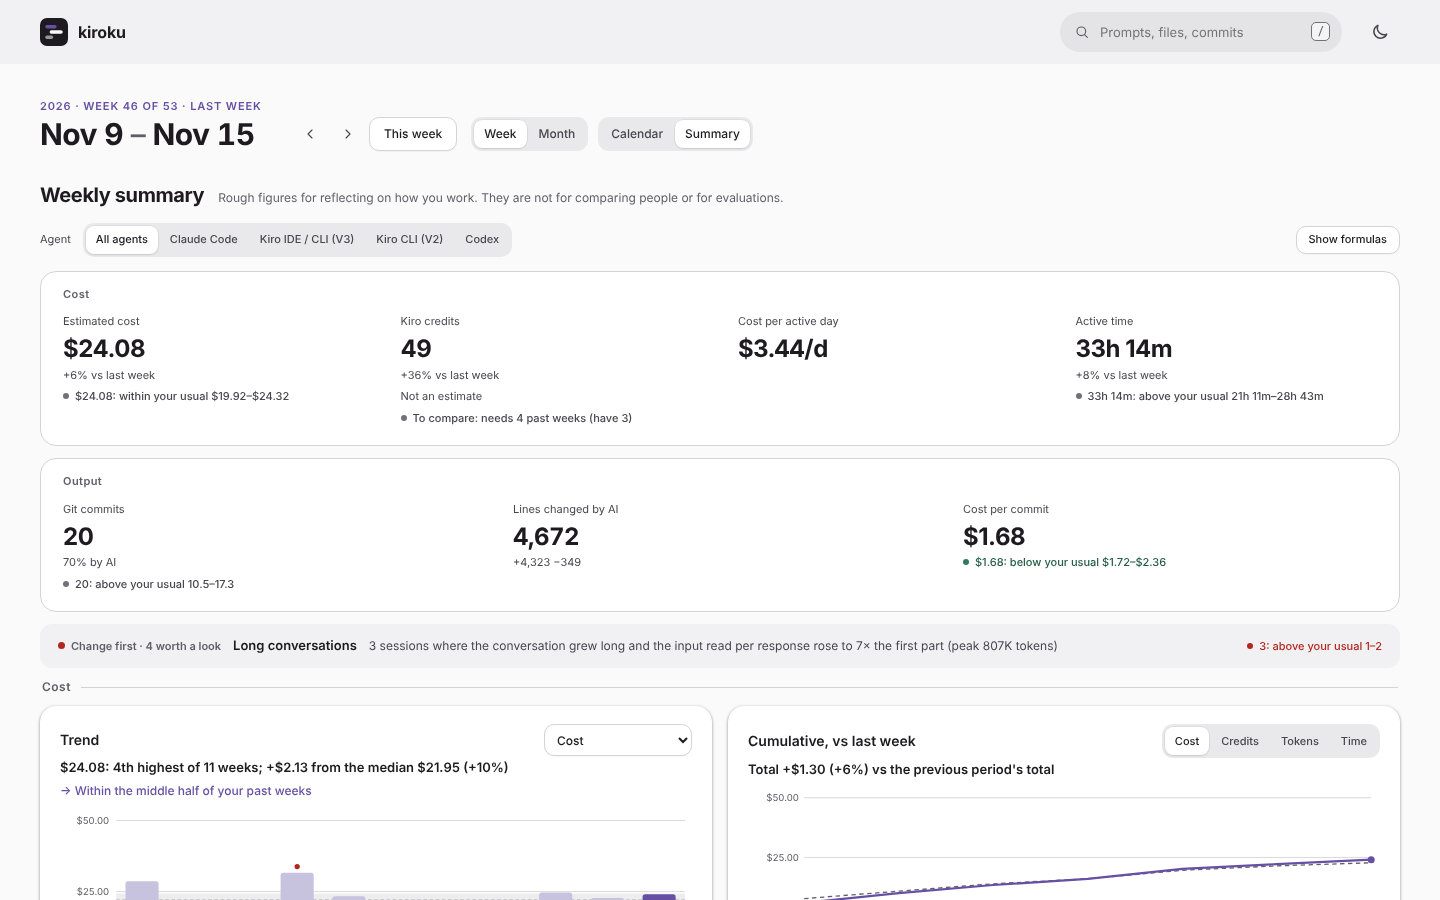
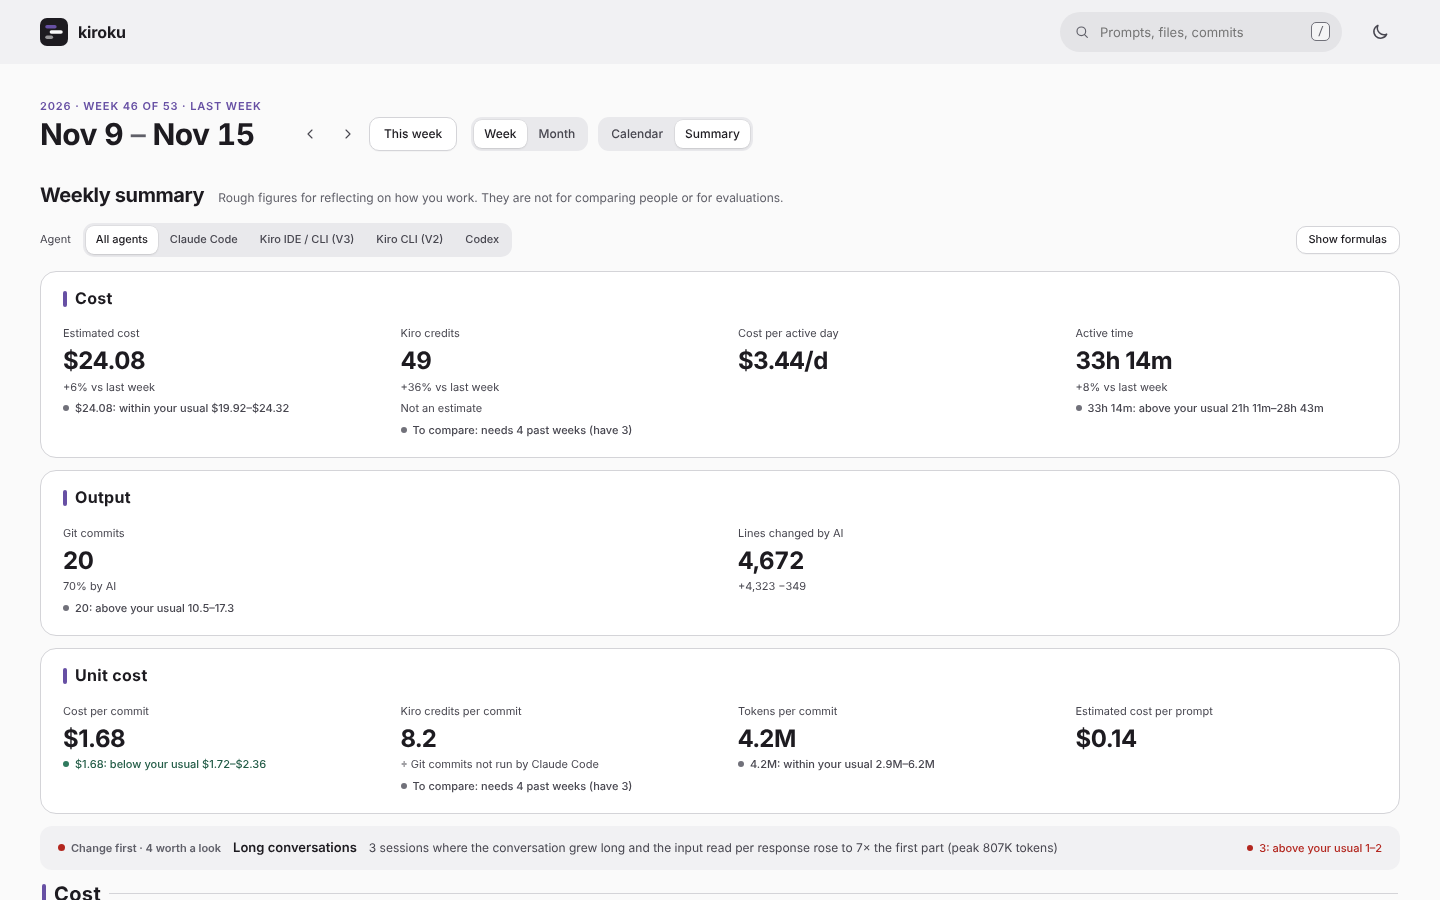
Group the summary under Cost, Output and Unit cost with stronger headings
Unit cost (cost divided by output) gets its own panel: cost, Kiro
credits and tokens per commit and cost per prompt. Cost per commit
moves out of the Outputs card. Group and section headings are larger
and bolder, with a short accent bar.

diff --git a/internal/web/js/insight.js b/internal/web/js/insight.js
@@ -59,8 +59,8 @@ const insChip = b => `<code class="ichip ifx${insTone(b)}" title="${esc(insDef(b
 /* 要点の数字（最大 3 列）：上の帯と同じ数をサマリーでも、式といつもの範囲との不等式つきで。並びは判断に使う順：
    使った額（推定費用・クレジット、なければトークン）→ 予算に対する位置（前の期間並みに収める 1 日の目安／月末の推定／前の期間との差）→ 稼働時間 → 効率（コミットあたり費用）→ まず見直すもの */
 function insHeadlines(F){
-  const {S: w, P: pw, ws, we} = period(), T = {cost: [], out: []}, u = (w && w.usage) || {}, M = st.mode === "month";
-  let G = "cost"; // コスト（時間・クレジット・金額・トークン）と、出力（コミット・変えた行）に分けて並べる
+  const {S: w, P: pw, ws, we} = period(), T = {cost: [], out: [], unit: []}, u = (w && w.usage) || {}, M = st.mode === "month";
+  let G = "cost"; // コスト（時間・クレジット・金額・トークン）・出力（コミット・変えた行）・単価（コスト ÷ 出力）に分けて並べる
   const tile = (label, b, v, f, m) => T[G].push(`<div class="itile${insTone(b)}"><span class="il">${esc(label)}</span>${m ? `<button type="button" class="itv" data-metric="${m}" aria-haspopup="dialog" aria-label="${esc(`${label} ${v}`)}">${esc(v)}</button>` : `<b>${esc(v)}</b>`}${[].concat(f || []).map(x => typeof x === "object" ? fx(x.f, "", x.p) : x === t("Not an estimate") ? pln(x) : fx(x)).join("")}${b === false ? "" : insChip(b)}</div>`); // 値を押すと、上の帯と同じ内訳
   const days = Math.round((we - ws) / 86400), el = Math.round(insFrac() * days), V = vsPrev(pw, M ? "月" : "週");
   // 上の帯の増減（%）と同じ比べを式で：途中の期間は前の期間の同じ日まで、終わった期間は前の期間まるごと
@@ -92,15 +92,21 @@ function insHeadlines(F){
   else if (o.commits) tile(t("AI commits"), false, `${o.commits}`, "", "aiCommits");
   { const xs = DATA.filter(s => s.start >= ws && s.start < we && s.nFiles > 0), a = xs.reduce((x, s) => x + (s.editAdded || 0), 0), d = xs.reduce((x, s) => x + (s.editRemoved || 0), 0);
     if (a + d > 0) tile(t("Lines changed by AI"), false, commas(a + d), {f: `+${commas(a)} −${commas(d)}`, p: `+${commas(a)} −${commas(d)}`}); }
+  G = "unit"; // 単価：コストを出力（コミット・プロンプト）で割ったもの
   const bp = insBase("costPerCommit"), oc = w && w.outCost, nc = w && w.outputs && w.outputs.commits;
   if (bp) tile(t("Cost per commit"), bp, fmtM("costPerCommit", bp.cur), oc && nc ? `Claude Code ${usd(oc)} ÷ ${nc} ${t("AI commits")} = ${usd(bp.cur)}` : "", "costPerCommit");
+  const bcc = insBase("creditsPerCommit"), gx = g ? g.commits - (g.ai || 0) : 0;
+  if (bcc) tile(t("Kiro credits per commit"), bcc, `${Math.round(bcc.cur * 10) / 10}`, {f: `${cr1(u.credits)} ÷ ${gx} ${t("commits")} = ${fmtM("creditsPerCommit", bcc.cur)}`, p: t("÷ Git commits not run by Claude Code")});
+  const btc = insBase("tokensPerCommit");
+  if (btc) tile(t("Tokens per commit"), btc, fmtM("tokensPerCommit", btc.cur), nc ? `Claude Code ${t("tokens")} ÷ ${nc} ${t("AI commits")} = ${fmtM("tokensPerCommit", btc.cur)}` : "");
+  if (w && w.costPerAsk != null) tile(t("Estimated cost per prompt"), false, usd(w.costPerAsk), t("cost ÷ {n} prompts with token data", {n: commas(w.costPrompts)}), "costPerAsk");
   const f0 = F[0], g0 = f0 && (GOTO[f0.k] || f0.k), b0 = f0 && MET[f0.k] ? insBase(f0.k) : null, nIds = new Set(F.map(f => GOTO[f.k] || f.k)).size;
   const n0 = f0 && F.filter(f => (GOTO[f.k] || f.k) === g0).length === 1 && H()[f0.k] ? H()[f0.k].n : g0 && insName(g0); // 開くダイアログの見出しと同じ名前
   // まず見直すもの：数字の段の下に 1 行で（カードにすると、数字と同じ重さに見える）
   const C = f0 ? `<div class="icall${b0 && b0.better === false ? " bad" : ""}"><span class="il">${esc(t("Change first"))}${nIds > 1 ? ` · ${esc(t("{n} worth a look", {n: nIds}))}` : ""}</span><button type="button" class="icv insgo" data-goto="${esc(g0)}" aria-haspopup="dialog">${esc(n0)}</button><span class="isee">${esc(f0.L.see)}</span>${fx(t("Threshold: {rule}", {rule: f0.L.rule}))}${b0 ? insChip(b0) : ""}</div>`
     : `<div class="icall good"><span class="il">${esc(t("Change first"))}</span><b class="icv">${esc(t("Nothing"))}</b><span class="isee">${esc(t("No metric crossed its threshold"))}</span></div>`;
   const grp = (k, label) => T[k].length ? `<section class="ikg" aria-label="${esc(label)}"><h5 class="ikgh">${esc(label)}</h5><div class="ikrow">${T[k].join("")}</div></section>` : "";
-  return `<div class="insh">${grp("cost", t("Cost"))}${grp("out", t("Output"))}</div>${C}<p class="ifxs insdef">${fx(insDef())}</p>`;
+  return `<div class="insh">${grp("cost", t("Cost"))}${grp("out", t("Output"))}${grp("unit", t("Unit cost"))}</div>${C}<p class="ifxs insdef">${fx(insDef())}</p>`;
 }
 /* 推移のグラフ：前の INS_N 期間と表示中の期間の棒。いつもの範囲（四分位）を帯、中央値を点線で重ねる。
    途中の期間は、今の値の棒と、このペースで終えたときの値の枠。範囲から大きく外れた期間には印 */
@@ -161,7 +167,8 @@ function insightH(F){
     {h: (b => b ? `<div class="inscol">${b}</div>` : "")(insWhere())}, {h: card(t("Tokens by type"), insTokens())},
     {h: card((HISTK(DATA.filter(s => inP(s, period().ws, period().we))) || {}).title || "", insHist())},
     {h: card(t("By agent"), insAgents()), full: true},
-    {sec: t("Output")}, {h: card(t("Outputs"), insOutputs(), " iout"), full: true}, {h: card(t("Cost vs outputs per session"), insScatter())},
+    {sec: t("Output")}, {h: card(t("Outputs"), insOutputs(), " iout"), full: true},
+    {sec: t("Unit cost")}, {h: card(t("Cost vs outputs per session"), insScatter())},
     {sec: t("How you used AI")}, {h: card(t("How you used AI"), insUsage())}, {h: card(t("When you worked"), insHeat())}, {h: card(t("How you worked"), insWork())},
   ].filter(c => c.h || c.sec);
   let run = []; const out = [], flush = () => { if (run.length % 2) run[run.length - 1].full = true; out.push(...run); run = []; };
@@ -340,7 +347,6 @@ function insOutputs(){
     g ? insStat(t("Lines changed"), n(lines), fx(`+${n(g.added)} −${n(g.removed)}; ${n(lines)} ÷ ${g.commits} = ${n(Math.round(lines / g.commits))} ${t("per commit")}`), "lines", "lines") : "",
     o.prs ? insStat(t("Pull requests"), `${o.prs}`, esc(t("Created by AI")), "prs", "prs") : "",
     base ? insStat(t("Sessions that reached a commit or PR"), `${sp}<small>%</small>`, fx(`${w.outSessions} ÷ ${base} ${t("Claude Code sessions")} = ${sp}%`), "outSessions", "outSessions", "outSessions") : "",
-    w.costPerCommit != null ? insStat(t("Estimated cost per commit"), usdH(w.costPerCommit), fx(`Claude Code ${w.outCost != null ? usd(w.outCost) : ""} ÷ ${o.commits} ${t("AI commits")} = ${usd(w.costPerCommit)}`), "costPerCommit", "costPerCommit", "costPerCommit") : "",
   ].join("");
   const sy = (g ? t("{c} commits, {ai}% by AI; {sp}% of Claude Code sessions reached a commit or PR", {c: g.commits, ai: Math.round(g.ai * 100 / g.commits), sp: sp ?? "—"}) : o.commits ? t("{c} AI commits; {sp}% of Claude Code sessions reached a commit or PR", {c: o.commits, sp: sp ?? "—"}) : "")
     + (E ? (g || o.commits ? t("; ") : "") + t("AI changed {n} files (+{a} −{d} lines)", {n: n(E.nf), a: n(E.add), d: n(E.del)}) : "");

diff --git a/internal/web/style.css b/internal/web/style.css
@@ -890,12 +890,15 @@ header{background:var(--s-cont);border-bottom:0}
    いつもの範囲から外れたことは、数字の下の小さな印（.ichip）だけで言う */
 .insh{display:flex;flex-direction:column;gap:12px;margin-bottom:12px}
 .ikg{border:1px solid var(--rule);border-radius:16px;background:var(--s-lowest);padding:14px 4px 16px}
-.ikgh{margin:0 0 8px;padding:0 18px;font-size:var(--fs-xs);font-weight:600;letter-spacing:.04em;color:var(--ink-3)}
+/* 分類の見出し（コスト・出力・単価）：本文より大きく太く、左に色の短い線 */
+.ikgh,.inssec{display:flex;align-items:center;gap:8px;font-weight:700;color:var(--ink);letter-spacing:.02em}
+.ikgh::before,.inssec::before{content:"";flex:none;width:4px;height:1em;border-radius:2px;background:var(--acc)}
+.ikgh{margin:0 0 12px;padding:0 18px;font-size:var(--fs-xl)}
 .ikrow{display:flex;flex-wrap:wrap;row-gap:16px} /* 数字は等分に並べ、入らなければ折り返す（折り返した段も幅いっぱいに広げる） */
 .itile{flex:1 1 170px;padding:2px 18px;display:flex;flex-direction:column;align-items:flex-start;gap:4px;min-width:0}
 @media (max-width:700px){.itile{flex-basis:40%}.itile{padding:2px 14px}.ikgh{padding:0 14px}}
 /* カードの見出し（コスト・出力・使い方）：2 列の並びの幅いっぱいに */
-.inssec{grid-column:1/-1;margin:18px 0 -4px;padding:0 2px;font-size:var(--fs-sm);font-weight:600;letter-spacing:.04em;color:var(--ink-3)}
+.inssec{grid-column:1/-1;margin:26px 0 -2px;padding:0 2px;font-size:var(--fs-2xl)}
 .inssec:first-child{margin-top:0}
 /* 出力のカード：左に数、右に変更の多いファイル（狭ければ縦に） */
 .iout2{display:grid;grid-template-columns:minmax(0,1fr) minmax(0,1fr);gap:20px 28px;align-items:start}.iout2 .iwcap{margin-top:0}

diff --git a/internal/web/js/i18n.js b/internal/web/js/i18n.js
@@ -207,6 +207,8 @@ const JA_TEXT = {
   "characters": "文字",
   "Corrections {f}% of {p} prompts; {l} usage limit hits; {c} compactions": "言い直し・中断 {f}%（{p} プロンプト中）。利用上限 {l} 回。コンパクション {c} 回",
   "Outputs": "出力",
+  "Unit cost": "単価",
+  "÷ Git commits not run by Claude Code": "Git のコミット（Claude Code が実行した分を除く）で割る",
   "AI changed {n} files (+{a} −{d} lines)": "AI が変えたファイル {n}（+{a} −{d} 行）",
   "; ": "。",
   "Already {x} over the previous period's total {prev}": "前の期間の合計 {prev} をすでに {x} 超えている",

diff --git a/docs/guide.md b/docs/guide.md
@@ -163,7 +163,7 @@ The summary opens with an overview of charts, computed in the browser from your 
 
 Each chart opens with a takeaway computed from the data (for example "At this pace $22.86: 4th highest of 6 weeks; −$2.45 from the median $25.31") and, where the data supports one, a next step with numbers (for example "To stay within the previous period's $31.23: at most $12.97 in the 1 day left"). Cards in the same row are the same height.
 
-- **Figures**, in two rows that split what you spent from what came out of it. **Cost**: estimated cost with its pace; Kiro credits (or tokens); where you stand against the previous period (a day to match it, how far over it you already are, the month-end estimate, or the difference for a finished period), each with its formula; and active time. **Output**: Git commits with the share by AI (or AI commits), lines changed by AI, and cost per commit with its formula. A small mark under a figure says where it falls against your usual range (colored only when outside it). Below them, one line says what to change first, with its threshold. Press a value for the same breakdown as in the band
+- **Figures**, in three panels that split what you spent, what came out of it, and the rate between them. **Cost**: estimated cost with its pace; Kiro credits (or tokens); where you stand against the previous period (a day to match it, how far over it you already are, the month-end estimate, or the difference for a finished period), each with its formula; and active time. **Output**: Git commits with the share by AI (or AI commits) and lines changed by AI. **Unit cost** (cost ÷ output): estimated cost, Kiro credits and tokens per commit, and estimated cost per prompt, each with its formula. A small mark under a figure says where it falls against your usual range (colored only when outside it). Below them, one line says what to change first, with its threshold. Press a value for the same breakdown as in the band
 - **Trend**: bars for the last periods of a metric you pick (cost, Kiro credits, tokens, time, cost, credits and tokens per commit, cache, corrections, wait; a drop-down list when the metrics don't fit in one row), with the usual range as a band, the median dashed, the pace of the period in progress as a dashed outline, and red dots on periods far outside the range (1.5 times its width beyond it)
 - **Cumulative, vs last week / month**: the running total by day against the previous period's line, for estimated cost, Kiro credits, tokens or active time (a switch among those with records; the choice is remembered). For cost and credits it also says how much is left per day to stay at the previous period's total
 - **Cost by session length**: estimated cost per length bucket (under 5 minutes to over 2 hours), or credits, or tokens when there is no cost, with the median length. The number of sessions in each bucket is in the bar's tooltip. With none of them recorded, the chart is not shown: a count of sessions alone says little about whether long sessions are heavy
@@ -171,12 +171,12 @@ Each chart opens with a takeaway computed from the data (for example "At this pa
 - **When you worked**: a weekday × hour heatmap of active time (overlapping sessions count once), the busiest three hours and the share outside weekday 9:00–18:00. Each row ends with the total for that weekday, so the values don't depend on pointing at a cell
 - **Tokens by type**: input, output, cache write and cache read as one stacked bar and as rows with the count and share, with the share read from cache = cache read ÷ (input + cache write + cache read) against your past periods
 
-The chart cards are in two columns (one on narrow windows), under three headings: **Cost** (Trend, Cumulative, Where it went, Tokens by type, session length, By agent), **Output** (Outputs, Cost and outputs) and **How you used AI** (How you used AI, When you worked, How you worked). A card left alone in a row, By agent and Outputs take the full width. In this order:
+The chart cards are in two columns (one on narrow windows), under four headings: **Cost** (Trend, Cumulative, Where it went, Tokens by type, session length, By agent), **Output** (Outputs), **Unit cost** (Cost and outputs) and **How you used AI** (How you used AI, When you worked, How you worked). A card left alone in a row, By agent and Outputs take the full width. In this order:
 
 - **Agent** (above the figures, when more than one agent ran in the period): "All agents" or one agent. With one agent, every card in the summary counts only that agent's sessions, including the comparison with past periods; Git commits made by hand, which belong to no agent, are left out. The band above the calendar and the calendar itself stay for all agents. kiroku remembers the choice
 - **By agent** (when more than one agent ran): one row per agent with active time and its share, sessions, prompts, estimated cost, Kiro credits and tokens, side by side so costs and credits are never added together. Time when agents ran at once is split between them
 - **Where it went**: estimated cost (or credits, tokens or time when there is no cost) by project, agent or model, largest first, as bars with the value and share, next to **Tokens by type**
-- **Outputs**: Git commits with the share by AI, lines changed with the average per commit, pull requests, sessions that reached a commit or PR, and cost per commit, each divided figure with its formula; and what AI changed: the files the agents changed with their edit tools in the sessions that started in the period, the lines added and removed (each edit compared before and after, an estimate; edits whose text the history does not keep count as 0), and the files changed most with their lines and number of edits. A file opens the session that changed it most. AI changes are read from the history, not git, so they include changes that were never committed. Then **Cost and outputs** (the scatter)
+- **Outputs**: Git commits with the share by AI, lines changed with the average per commit, pull requests, sessions that reached a commit or PR, each divided figure with its formula; and what AI changed: the files the agents changed with their edit tools in the sessions that started in the period, the lines added and removed (each edit compared before and after, an estimate; edits whose text the history does not keep count as 0), and the files changed most with their lines and number of edits. A file opens the session that changed it most. AI changes are read from the history, not git, so they include changes that were never committed. Then **Cost and outputs** (the scatter)
 - **How you used AI**: tokens with the output share, cache reads, Kiro credits, prompts, cost per prompt, subagents with their types, and the month-end estimates
 - **When you worked** (the heatmap), across the page
 - **How you worked**: corrections and interruptions, usage limit hits, compactions, oversized prompts, focus blocks, project switches and wait time

diff --git a/changes/unit-cost.changed.md b/changes/unit-cost.changed.md
@@ -1,0 +1,1 @@
+- Summary: figures and cards are grouped under Cost, Output and Unit cost (「単価」: cost ÷ output, such as cost, credits and tokens per commit and cost per prompt), with larger, bolder headings; cost per commit moves from the Outputs card to Unit cost
